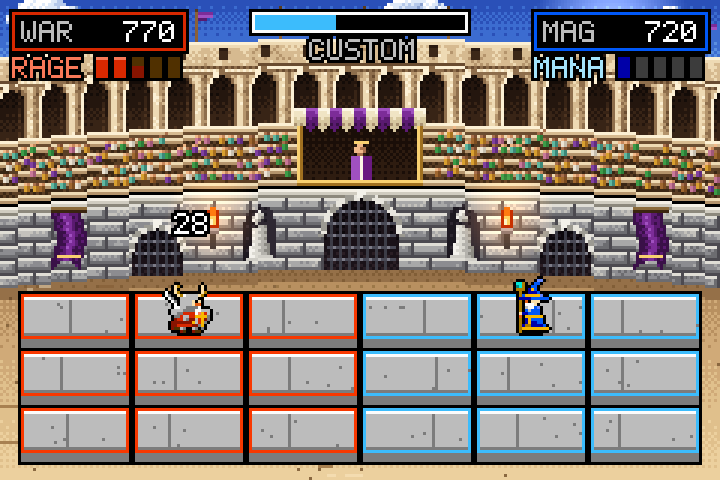
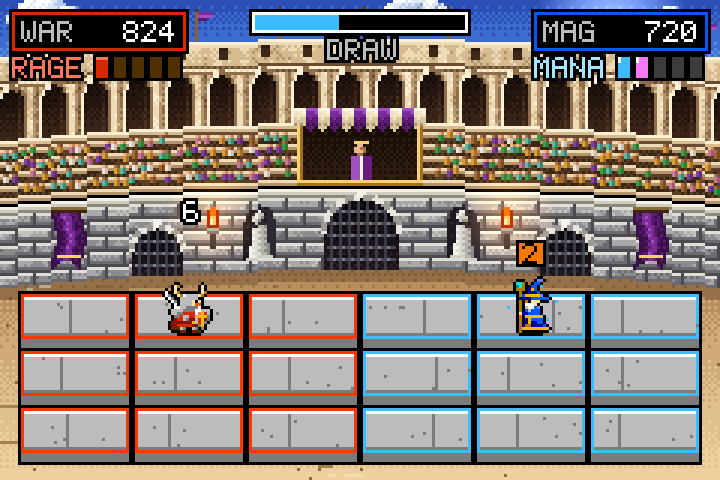
Rename the custom gauge and screen to Draw
Claude-Session: https://claude.ai/code/session_014GekZgA1f4aZACHcxkyXyg

diff --git a/src/game/battleView.ts b/src/game/battleView.ts
@@ -331,7 +331,7 @@ function drawHud(c: Ctx, b: Battle, tick: number): void {
   frame(c, gx, 4, gw, 7, '#000000', '#fcfcfc');
   const full = b.gauge >= 1;
   P(c, full ? (tick % 4 < 2 ? '#f8b800' : '#fcfcfc') : '#3cbcfc', gx + 1, 5, Math.round((gw - 2) * b.gauge), 5);
-  drawTextCentered(c, full ? `${k('custom')}: CUSTOM` : 'CUSTOM', 120, 13, full ? '#f8b800' : '#bcbcbc');
+  drawTextCentered(c, full ? `${k('custom')}: DRAW` : 'DRAW', 120, 13, full ? '#f8b800' : '#bcbcbc');
 }
 
 function drawResource(c: Ctx, f: Fighter, x: number, y: number, tick: number): void {

diff --git a/src/scenes/battle.ts b/src/scenes/battle.ts
@@ -168,7 +168,7 @@ export class BattleScene implements Scene {
     const lx = 4, ly = 24, lw = 118;
     frame(c, lx, ly, lw, 126, '#000000', '#3cbcfc');
     P(c, '#0000a8', lx + 1, ly + 1, lw - 2, 10);
-    drawText(c, `CUSTOM  TURN ${b.turn}`, lx + 4, ly + 3, '#fcfcfc');
+    drawText(c, `DRAW  TURN ${b.turn}`, lx + 4, ly + 3, '#fcfcfc');
     const secs = Math.ceil(this.timer);
     drawText(c, String(secs).padStart(2, '0'), lx + lw - 16, ly + 3, secs <= 5 && tick % 4 < 2 ? '#f83800' : '#f8b800');
     offer.forEach((id, i) => {

diff --git a/src/scenes/controls.ts b/src/scenes/controls.ts
@@ -7,7 +7,7 @@ import { sfx } from '../engine/audio';
 
 const LABELS: Record<Bindable, string> = {
   up: 'MOVE UP', down: 'MOVE DOWN', left: 'MOVE LEFT', right: 'MOVE RIGHT',
-  attack: 'ATTACK / OK', cast: 'CAST / BACK', custom: 'CUSTOM SCREEN', pause: 'PAUSE',
+  attack: 'ATTACK / OK', cast: 'CAST / BACK', custom: 'DRAW SCREEN', pause: 'PAUSE',
 };
 const ROWS = [...BINDABLE, 'reset', 'back'] as const;
 

diff --git a/README.md b/README.md
@@ -1,6 +1,6 @@
 # Spell VS Steel
 
-A fantasy, class-based take on Mega Man Battle Network: real-time fights on a 6x3 grid, broken up by a paused custom screen where you draft spells from your grimoire.
+A fantasy, class-based take on Mega Man Battle Network: real-time fights on a 6x3 grid, broken up by a paused Draw screen where you draft spells from your grimoire.
 
 This is the **Warrior vs Mage prototype**: title screen, Versus CPU, match setup, a deck builder, all Warrior and Mage spells from the design doc, a CPU opponent (Easy and Normal), chiptune sound effects and two original 16-bit tracks.
 
@@ -22,18 +22,18 @@ npm run sim      # headless CPU-vs-CPU matches; prints win rates, match length, 
 | J (tap) | Light attack |
 | J (hold, release) | Heavy attack |
 | K | Cast the next spell (hold a direction to aim Blink) |
-| Space | Open the custom screen when the gauge is full |
+| Space | Open the Draw screen when the gauge is full |
 | Enter / Esc | Pause |
 | M | Mute |
 
-These are the defaults. **Controls** on the title menu rebinds movement, attack, cast, custom screen and pause (saved in the browser); arrows, Esc and M always work.
+These are the defaults. **Controls** on the title menu rebinds movement, attack, cast, Draw screen and pause (saved in the browser); arrows, Esc and M always work.
 
-Custom screen: J picks or unpicks a spell (cast order is pick order), K undoes the last pick, Space starts the fight. Deck builder: D or J adds a copy, A or K removes one, Q / E switch class, Enter finishes.
+Draw screen: J picks or unpicks a spell (cast order is pick order), K undoes the last pick, Space starts the fight. Deck builder: D or J adds a copy, A or K removes one, Q / E switch class, Enter finishes.
 
 ## Rules in the prototype
 
-- One shared custom gauge fills in 10s; only the player can open the custom screen, and both sides draft when it opens. 5 spells drawn each time, 20s timer. Picked-but-uncast spells are discarded at the next custom screen.
-- Spell costs are paid on cast. Warrior Rage (max 5) comes from heavy hits (+1.5) and taking damage (1 pip per 40, max 1 per hit); light attacks build none. Mage Mana starts at 1 max, +1 max per custom screen (cap 5), and refills each turn.
+- One shared Draw gauge fills in 10s; only the player can open the Draw screen, and both sides draft when it opens. 5 spells drawn each time, 20s timer. Picked-but-uncast spells are discarded at the next Draw screen.
+- Spell costs are paid on cast. Warrior Rage (max 5) comes from heavy hits (+1.5) and taking damage (1 pip per 40, max 1 per hit); light attacks build none. Mage Mana starts at 1 max, +1 max per Draw screen (cap 5), and refills each turn.
 - Frozen or stunned targets take +50% damage. No slows.
 - Grimoires: exactly 30 spells, up to 4 copies of a common, 2 of an uncommon, 1 of each Legendary (max 5), exactly 1 Mythic. Custom decks save in the browser.
 - Mirror matches give the CPU an alternate palette.
@@ -45,4 +45,4 @@ Every number worth tuning is in [`src/game/tuning.ts`](src/game/tuning.ts). Spel
 - `src/engine/` canvas helpers, bitmap font, keyboard input, sound effects and the music sequencer, song data
 - `src/art/` Cartridge NES sprites, the Grand Colosseum arena, the logo
 - `src/game/` battle rules (`battle.ts`), spells, decks, CPU, drawing (`battleView.ts`)
-- `src/scenes/` title, setup, deck builder, battle (custom screen, pause, results), controls
+- `src/scenes/` title, setup, deck builder, battle (Draw screen, pause, results), controls
